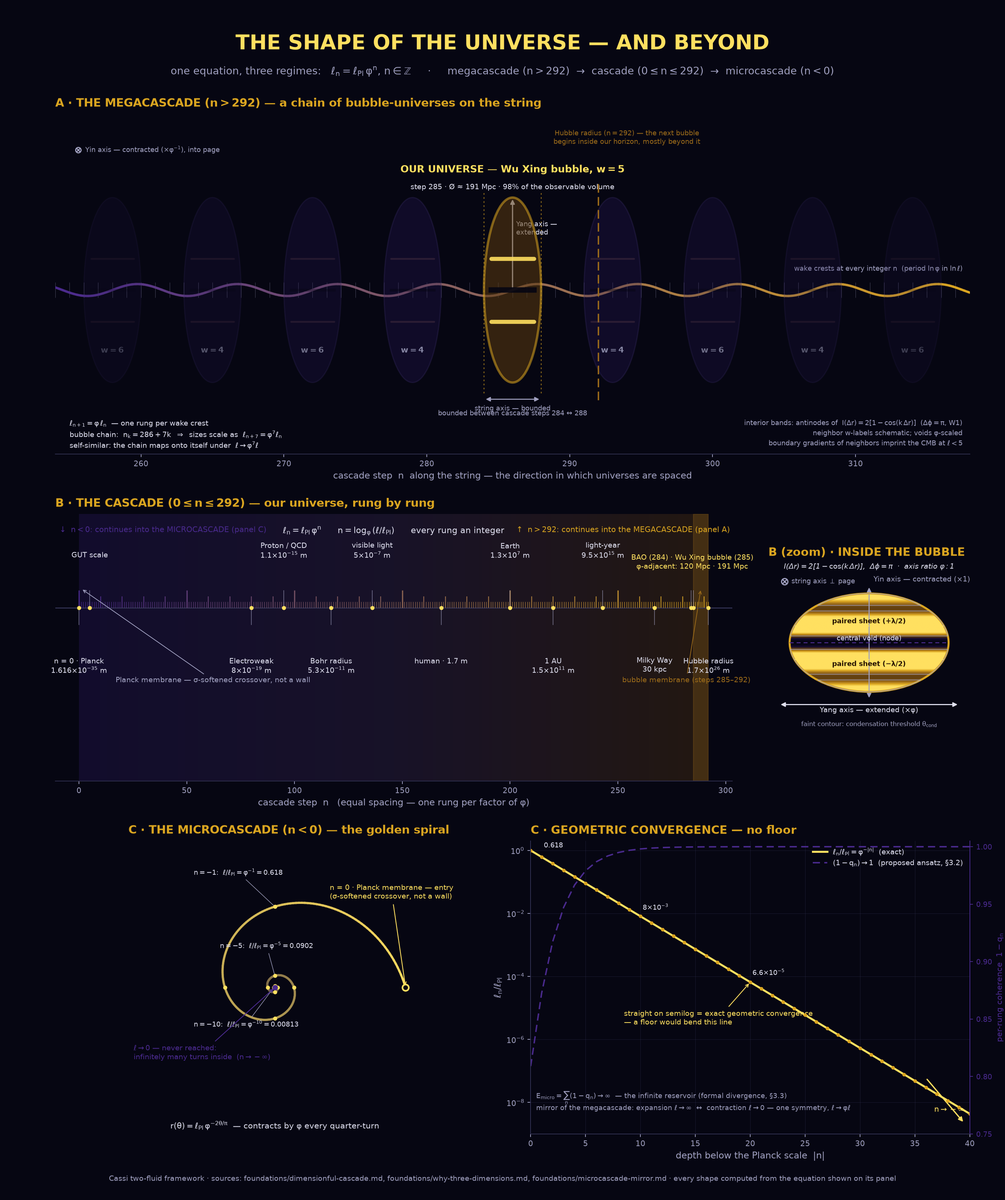
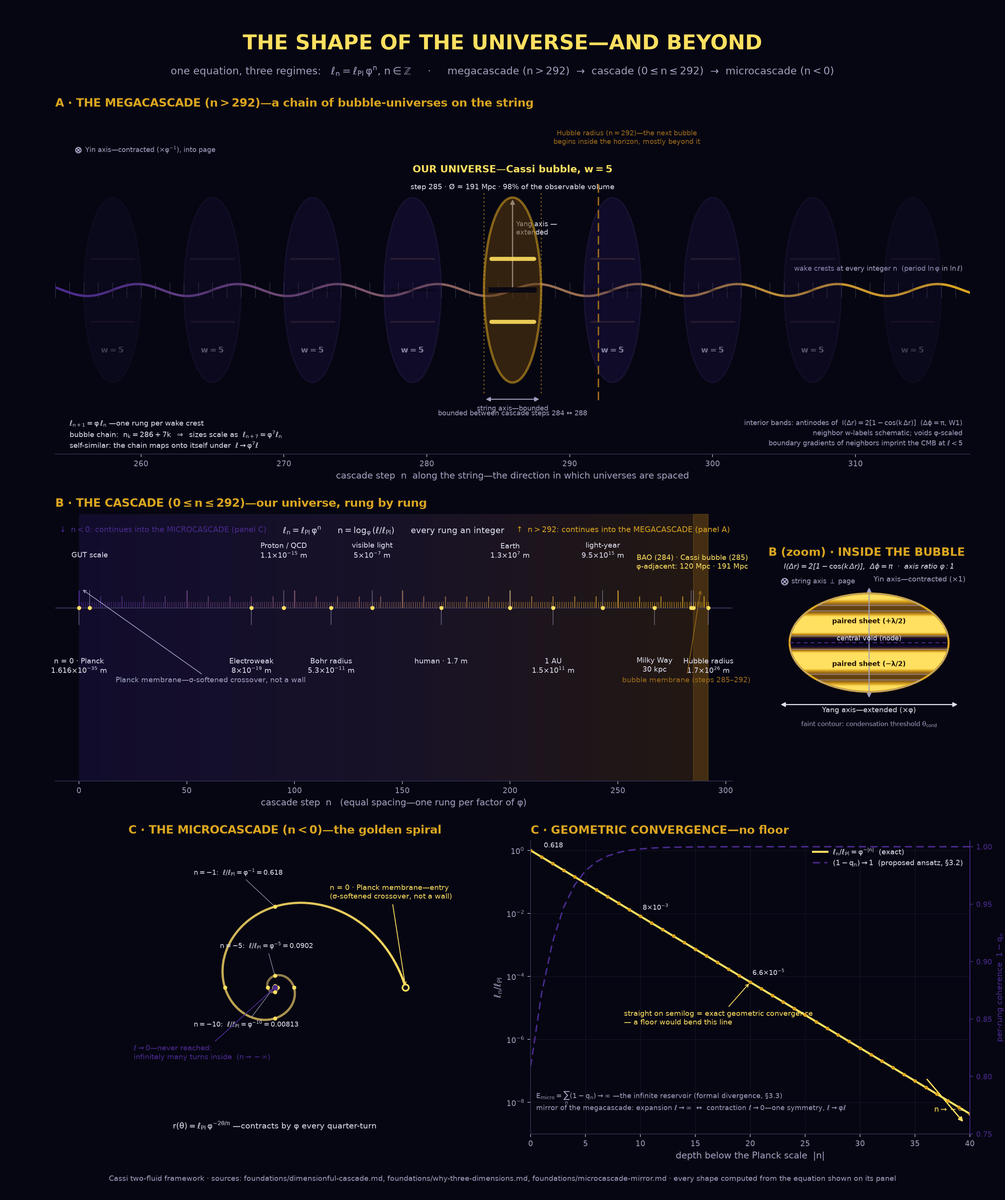
docs: rename Wu Xing bubble to Cassi bubble
The bubble at step 285 is the Cassi bubble; the Wu Xing name stays
with the 5 coherence channels (Wu Xing number w=5, cycles, 5-phase
gate, wu_xing/five_ke solver models). 36 replacements across 18
files: rung tables, geometry docs, speculations, and label strings
in run_cmb_lowl_pipeline.py and three visual explainers. Smoke
tested: cascade_cosmos.py spot-checks pass, CMB pipeline completes.

diff --git a/CassiTheory/visual-explainers/cascade_cosmos.py b/CassiTheory/visual-explainers/cascade_cosmos.py
@@ -139,7 +139,7 @@ for n in range(AX0, AX1 + 1):
 axA.text(AX1 - 0.5, 0.32, "wake crests at every integer $n$  (period $\\ln\\varphi$ in $\\ln\\ell$)",
          fontsize=7.5, color=TEXT_SUB, ha="right")
 
-# The bubble chain: centers n_k = 286 + 7k; ours (k=0) is the Wu Xing bubble
+# The bubble chain: centers n_k = 286 + 7k; ours (k=0) is the Cassi bubble
 SHEET_FRAC = 0.34                     # antinode at ±λ/2 (anti-phase, W1)
 for k in range(-4, 5):
     cx = N_CENTER + CHAIN_PERIOD * k
@@ -164,7 +164,7 @@ for k in range(-4, 5):
              zorder=5, alpha=0.9 if ours else 0.5 * fade)
     # labels
     if ours:
-        axA.text(cx, BUB_H + 0.42, "OUR UNIVERSE—Wu Xing bubble, $w{=}5$",
+        axA.text(cx, BUB_H + 0.42, "OUR UNIVERSE—Cassi bubble, $w{=}5$",
                  ha="center", fontsize=11, fontweight="bold", color=YANG_PEAK)
         axA.text(cx, BUB_H + 0.14, "step 285 · Ø ≈ 191 Mpc · 98% of the observable volume",
                  ha="center", fontsize=8, color=TEXT_MAIN)
@@ -265,11 +265,11 @@ for n, label, side in landmarks:
     axB.plot([n], [BASE], marker="o", ms=3.5, color=YANG_PEAK, zorder=4)
     axB.text(n, y_text, label, ha="center", va=va, fontsize=8.0,
              color=TEXT_MAIN, linespacing=1.25)
-# BAO + Wu Xing bubble share one callout (rungs 1 apart)
+# BAO + Cassi bubble share one callout (rungs 1 apart)
 for nb in (284, 285):
     axB.plot([nb], [BASE], marker="o", ms=3.5, color=YANG_PEAK, zorder=4)
     axB.vlines(nb, BASE, 0.60, color=TEXT_SUB, lw=0.7, alpha=0.65, zorder=3)
-axB.text(284.5, 0.71, "BAO (284) · Wu Xing bubble (285)\n$\\varphi$-adjacent: 120 Mpc · 191 Mpc",
+axB.text(284.5, 0.71, "BAO (284) · Cassi bubble (285)\n$\\varphi$-adjacent: 120 Mpc · 191 Mpc",
          ha="center", va="bottom", fontsize=8.0, color=YANG_PEAK, linespacing=1.25)
 
 # Membranes and connectors to the other two regimes
@@ -289,7 +289,7 @@ axB.text(146, 0.97,
          ha="center", va="top", fontsize=9.5, color=TEXT_MAIN)
 panel_title(axB, "B · THE CASCADE ($0 \\leq n \\leq 292$)—our universe, rung by rung")
 
-# ── Panel B zoom: inside the Wu Xing bubble (triaxial cross-section) ──────────
+# ── Panel B zoom: inside the Cassi bubble (triaxial cross-section) ──────────
 A_YANG, B_YIN = PHI, 1.0     # axis ratio = freeze-out ratio r → φ (§3.4)
 axBi.set_xlim(-2.05, 2.05)
 axBi.set_ylim(-1.82, 1.62)

diff --git a/CassiTheory/two-fluid/run_cmb_lowl_pipeline.py b/CassiTheory/two-fluid/run_cmb_lowl_pipeline.py
@@ -8,7 +8,7 @@ CMB low-ℓ angular power spectrum from the Cassi bubble-boundary geometry:
     --------
     The CMB quadrupole (ℓ=2) and octopole (ℓ=3) are anomalously aligned
     at (l,b) = (260°, +60°) at 5.4σ significance.  The Cassi mechanism:
-    a w-gradient between neighboring Wu Xing bubbles (w=4, w=6) at
+    a w-gradient between neighboring Cassi bubbles (w=4, w=6) at
     super-horizon scales imprints a preferred axis at ℓ < 5.
 
     Our bubble is at cascade step 285 (191 Mpc comoving diameter), embedded

diff --git a/CassiTheory/visual-explainers/resonant_pond.py b/CassiTheory/visual-explainers/resonant_pond.py
@@ -649,7 +649,7 @@ class CosmicWeb(Scene):
             (1.55, "Solar System"),
             (1.90, "Milky Way"),
             (2.30, "BAO"),
-            (2.80, "Wu Xing bubble"),
+            (2.80, "Cassi bubble"),
             (2.98, "Hubble radius"),
         ]
         cascade_rings = VGroup()

diff --git a/CassiTheory/visual-explainers/coherence_transmission.py b/CassiTheory/visual-explainers/coherence_transmission.py
@@ -126,7 +126,7 @@ LANDMARKS = {
     80:  ("Electroweak", YANG_MID, -0.5),
     95:  ("QCD", YANG_MID, -0.5),
     117: ("Atomic (Bohr)", YANG_DARK, -0.5),
-    285: ("Wu Xing bubble", YANG_BRIGHT, 0.5),
+    285: ("Cassi bubble", YANG_BRIGHT, 0.5),
     292: ("Hubble", YANG_PEAK, 0.5),
 }
 

diff --git a/CassiTheory/speculations/coherence-collapse.md b/CassiTheory/speculations/coherence-collapse.md
@@ -4,7 +4,7 @@
 
 ## Abstract
 
-Every civilization that asks "how does it all end?" assumes the question has an answer. In the Cassi framework the question has a shape: the universe is a coherence structure, so an apocalypse is a coherence event, and coherence events are governed by a budget that is brutally asymmetric. Random perturbation cannot kill anything: the cascade's quadratic coherence budget makes spontaneous collapse astronomically improbable. Organized perturbation can kill specific things, but only locally, only transiently, and only with phase information the universe does not hand out for free. What actually dies, and dies reliably, is the intermediate structure: a civilization is a gate network, and gate networks have the one property the cascade does not protect—finite processing capacity. This document walks through the self-healing core (why global collapse is structurally impossible), the four failure modes that survive it (q-collapse waves, species-level wake-lock, resonance catastrophe, gate-chain cascade failure), what coherence death looks like from the inside and from a telescope, and why the Wu Xing bubble makes apocalypse always local.
+Every civilization that asks "how does it all end?" assumes the question has an answer. In the Cassi framework the question has a shape: the universe is a coherence structure, so an apocalypse is a coherence event, and coherence events are governed by a budget that is brutally asymmetric. Random perturbation cannot kill anything: the cascade's quadratic coherence budget makes spontaneous collapse astronomically improbable. Organized perturbation can kill specific things, but only locally, only transiently, and only with phase information the universe does not hand out for free. What actually dies, and dies reliably, is the intermediate structure: a civilization is a gate network, and gate networks have the one property the cascade does not protect—finite processing capacity. This document walks through the self-healing core (why global collapse is structurally impossible), the four failure modes that survive it (q-collapse waves, species-level wake-lock, resonance catastrophe, gate-chain cascade failure), what coherence death looks like from the inside and from a telescope, and why the Cassi bubble makes apocalypse always local.
 
 **Epistemic status:** This is creative exploration grounded in Cassi formalism. Every mechanism is anchored to a specific equation or documented framework property—the coherence budget, the phase-matching factor, the trauma wake-lock runs, the gate-chain architecture—but the synthesis into collapse scenarios, the civilization-level mappings, and the quantitative extrapolations (especially the global-collapse probability of §1.3 and the event-rate readings of §2.2) are extrapolations beyond what the framework currently claims. Nothing in this document should be cited as a Cassi prediction or derivation.
 
@@ -146,7 +146,7 @@ The reason the universe cannot end is the same reason a civilization's death can
 
 ### 5.1 The bubble boundary as a phase barrier
 
-The Wu Xing bubble at cascade step $n = 285$ (~191 Mpc) is the coherence length of the Wu Xing number $w = 5$—the scale over which the cosmological initial conditions remain constant, set by the comoving horizon when the Qi gate first engaged (`foundations/dimensionful-cascade.md` §6). Adjacent bubbles sit at $\varphi$-spaced intervals in the chord lattice, separated by voids at the $C = -1$ sites of the condensation field; the observable universe is 98% inside the bubble, which spans the last seven rungs ($285 \to 292$) of the ladder. The boundary is a level set of the condensation field—a $\varphi$-detuned interface between the bubble's interior structure and the exterior lattice.
+The Cassi bubble at cascade step $n = 285$ (~191 Mpc) is the coherence length of the Wu Xing number $w = 5$—the scale over which the cosmological initial conditions remain constant, set by the comoving horizon when the Qi gate first engaged (`foundations/dimensionful-cascade.md` §6). Adjacent bubbles sit at $\varphi$-spaced intervals in the chord lattice, separated by voids at the $C = -1$ sites of the condensation field; the observable universe is 98% inside the bubble, which spans the last seven rungs ($285 \to 292$) of the ladder. The boundary is a level set of the condensation field—a $\varphi$-detuned interface between the bubble's interior structure and the exterior lattice.
 
 At a $\varphi$-detuned boundary the phase-matching factor is $\mathcal{M} \approx 0$: energy cannot couple across the interface—the mechanism that suppresses the sonic boom of a rung-shifting craft (`speculations/qi-bubble-propulsion.md` §2.2), applied at bubble scale. A coherence catastrophe inside the bubble hits a boundary it cannot phase-match, and it cannot leave. The wave's own weapon—phase information—is exactly what the boundary refuses. The apocalypse is local because the universe is partitioned by interfaces that are, by construction, invisible to organized perturbation.
 
@@ -175,7 +175,7 @@ The same boundary that confines the catastrophe confines the rescue. No neighbor
 - `foundations/cascade-suppression-formula.md`—$\varphi^{-N}$ attenuation, coherence maintenance, per-rung damping
 - `foundations/proton-coherence-budget.md`—coherence budget, random vs organized dephasing, annihilation
 - `foundations/quantum-measurement-derivation.md`—phase-matching factor $\mathcal{M}$, single-rung organized attack, Born rule
-- `foundations/dimensionful-cascade.md`—292-step ladder, Wu Xing bubble at $n \approx 285$, megacascade extension
+- `foundations/dimensionful-cascade.md`—292-step ladder, Cassi bubble at $n \approx 285$, megacascade extension
 - `foundations/bubble-lattice-fabric.md`—universal checkerboard, voids, 10-rung nesting depth
 - `foundations/microcascade-mirror.md`—sub-Planckian extension of the ladder
 - `foundations/cassi-first-principles.md`—two-fluid PDE, attractor potential, Qi gate

diff --git a/CassiTheory/foundations/bubble-edge-geometry.md b/CassiTheory/foundations/bubble-edge-geometry.md
@@ -63,7 +63,7 @@ This equation determines $\theta_{\text{cond}}$ from the single dimensionless pa
 
 **The phase diagram.** Unlike the simplified cubic form (which would arise from a $(1-q)^2$ gate), the relation with the true gate $g(q) = q/(\varphi^2 + q^2)$ is **monotonic**: larger $R$ produces larger $\theta_{\text{cond}}$ (thicker-edge bubbles). There is no catastrophic percolation threshold—bubbles never merge spontaneously. The mapping is smooth from $\theta_{\text{cond}} \to 0$ at $R \to 0$ (infinitesimal bubbles) to $\theta_{\text{cond}} \to 1$ at $R \to 2/(\varphi^2 + 1) \approx 0.552$ (bubbles filling the entire lattice). The calibration $R \approx 0.093$ gives the phenomenologically-inferred $\theta_{\text{cond}} = 0.45$.
 
-**The wavenumbers.** The condensation field wavelengths are set by the bubble scale: $\lambda_Y = \ell_{285} \approx 191$ Mpc (the Wu Xing bubble diameter from `dimensionful-cascade.md`), $\lambda_I = \lambda_Y/\varphi \approx 118$ Mpc. This gives $\alpha = 2\pi/\lambda_Y \approx 1.07 \times 10^{-24}$ m$^{-1}$, $\beta = \varphi\alpha \approx 1.73 \times 10^{-24}$ m$^{-1}$, and $\alpha^2 + \beta^2 = \alpha^2(1+\varphi^2) \approx 4.12 \times 10^{-48}$ m$^{-2}$.
+**The wavenumbers.** The condensation field wavelengths are set by the bubble scale: $\lambda_Y = \ell_{285} \approx 191$ Mpc (the Cassi bubble diameter from `dimensionful-cascade.md`), $\lambda_I = \lambda_Y/\varphi \approx 118$ Mpc. This gives $\alpha = 2\pi/\lambda_Y \approx 1.07 \times 10^{-24}$ m$^{-1}$, $\beta = \varphi\alpha \approx 1.73 \times 10^{-24}$ m$^{-1}$, and $\alpha^2 + \beta^2 = \alpha^2(1+\varphi^2) \approx 4.12 \times 10^{-48}$ m$^{-2}$.
 
 **Status.** The functional form relating $\theta_{\text{cond}}$ to $R$ is **Derived** from the balance of gated conversion and diffusion. The numerical value depends on $D_{\text{eff}}/\omega_0$—the ratio of the condensation field's effective diffusion to the conversion rate, measurable from the PDE. The phenomenologically-calibrated $\theta_{\text{cond}} = 0.45$ corresponds to $R \approx 0.093$. Section 8 specifies the PDE computation to determine $R$ and $\theta_{\text{cond}}$ from first principles.
 
@@ -193,7 +193,7 @@ The gradient anisotropy ratio $\sqrt{4\varphi^2/(1+\varphi^2)} \approx 1.70$ is 
 
 ### 5.3 Absolute Lattice Scales
 
-The condensation field wavelengths are set by the cascade. From `dimensionful-cascade.md`, the Wu Xing bubble at step 285 gives:
+The condensation field wavelengths are set by the cascade. From `dimensionful-cascade.md`, the Cassi bubble at step 285 gives:
 
 $$\lambda_Y = \ell_{285} \approx 191\ \text{Mpc}, \qquad \lambda_I = \frac{\lambda_Y}{\varphi} \approx 118\ \text{Mpc}$$
 
@@ -449,7 +449,7 @@ The condensation field $B(x,y,z)$ and its checkerboard lattice are not specific 
 - `visual-explainers/chord_side_on.py`—3D bubble shape, waisted lobe-pairs, string threading
 - `foundations/why-three-dimensions.md`—three dimensions from the spiral's Frenet-Serret frame, triaxial spheroid, anti-phase selection
 - `foundations/wu-xing-derivation.md` -- $w = 5$ uniqueness (all bubbles identical)
-- `foundations/dimensionful-cascade.md`—Wu Xing bubble at step 285, 191 Mpc
+- `foundations/dimensionful-cascade.md`—Cassi bubble at step 285, 191 Mpc
 - `foundations/spiral-dynamics.md`—$c(r)$ profile, wave speed; $H \propto (1-q)$
 - `foundations/cassi-first-principles.md`—Qi gate $g(q) = q/(\varphi^2+q^2)$, conversion dynamics
 - `consciousness/consciousness-from-phi.md` §3—two-bubble $\varphi$-resonance

diff --git a/CassiTheory/speculations/simulation-hypothesis.md b/CassiTheory/speculations/simulation-hypothesis.md
@@ -64,7 +64,7 @@ The frame rate is not uniform: each rung ticks at $t_n = \ell_n/c$ (`speculation
 
 ### 2.3 World edges at $n \approx 285$
 
-The Wu Xing bubble sits at rung 285: a coherence volume of $\sim 191$ Mpc containing roughly a million Milky-Way-sized galaxies—98% of the way up the 292-rung ladder (`foundations/dimensionful-cascade.md` §6). This is the nearest thing the architecture has to a world edge: the boundary of our initial conditions, where our $w=5$ volume ends and the neighbor's begins. The boundary is a level set of the condensation field $C(x,y) = \cos(2\pi x/\lambda_Y)\cos(2\pi y/\lambda_I) = \theta_{\text{cond}}$, with an edge gradient $1.70\times$ steeper in the Yin direction than the Yang direction (`foundations/cassi-theory-reference.md` §10.3). Because $285 < 292$, the edge is inside the render distance: a transition zone, not a wall. From inside, its signature is statistical—a preferred axis and the $12.2^\circ$ quadrupole-octopole alignment in the CMB's largest angular scales ($\ell < 5$), predicted from the bubble's triaxial geometry (`foundations/dimensionful-cascade.md` §8.3, `foundations/bubble-edge-geometry.md`). Beyond it lie adjacent bubbles of identical $w=5$ at $\varphi$-spaced intervals: "the next instance of the same world," in save-file terms.
+The Cassi bubble sits at rung 285: a coherence volume of $\sim 191$ Mpc containing roughly a million Milky-Way-sized galaxies—98% of the way up the 292-rung ladder (`foundations/dimensionful-cascade.md` §6). This is the nearest thing the architecture has to a world edge: the boundary of our initial conditions, where our $w=5$ volume ends and the neighbor's begins. The boundary is a level set of the condensation field $C(x,y) = \cos(2\pi x/\lambda_Y)\cos(2\pi y/\lambda_I) = \theta_{\text{cond}}$, with an edge gradient $1.70\times$ steeper in the Yin direction than the Yang direction (`foundations/cassi-theory-reference.md` §10.3). Because $285 < 292$, the edge is inside the render distance: a transition zone, not a wall. From inside, its signature is statistical—a preferred axis and the $12.2^\circ$ quadrupole-octopole alignment in the CMB's largest angular scales ($\ell < 5$), predicted from the bubble's triaxial geometry (`foundations/dimensionful-cascade.md` §8.3, `foundations/bubble-edge-geometry.md`). Beyond it lie adjacent bubbles of identical $w=5$ at $\varphi$-spaced intervals: "the next instance of the same world," in save-file terms.
 
 ### 2.4 What it looks like from inside
 
@@ -196,7 +196,7 @@ What the framework does provide, and what this document intends to preserve, is 
 - `foundations/cassi-first-principles.md`—two-fluid PDE, Qi gate, IIR memory, Schrödinger limit
 - `foundations/unified-lagrangian.md`—the complete action; zero free parameters
 - `foundations/cassi-theory-reference.md`—$\sigma = \ell_{\text{Pl}}/\varphi^3$, $\xi = \varphi^6$, bubble geometry, pinch transition
-- `foundations/dimensionful-cascade.md`—$\ell_n = \ell_{\text{Pl}}\varphi^n$, 292-rung table, Wu Xing bubble, open questions
+- `foundations/dimensionful-cascade.md`—$\ell_n = \ell_{\text{Pl}}\varphi^n$, 292-rung table, Cassi bubble, open questions
 - `foundations/microcascade-mirror.md`—infinite sub-Planckian ladder, mirror symmetry, $\sigma$-softening
 - `foundations/bubble-lattice-fabric.md`—universal checkerboard, scale covariance, 10-rung nesting depth
 - `foundations/bubble-edge-geometry.md`—condensation field level sets, edge anisotropy, CMB imprint

diff --git a/CassiTheory/foundations/dimensionful-cascade.md b/CassiTheory/foundations/dimensionful-cascade.md
@@ -84,7 +84,7 @@ The electroweak cascade depth $N \approx 80$ is robust against variations in the
 | 275 | $4.8 \times 10^{22}$ | Local Group ($\sim 1.6$ Mpc) | Extragalactic |
 | 280 | $5.3 \times 10^{23}$ | Cosmic void scale ($\sim 17$ Mpc) | Extragalactic |
 | **284** | **$3.6 \times 10^{24}$** | **Yin wake of rung 285** ($\lambda_I = \ell_{285}/\varphi$; old “BAO ~120 Mpc” label—the measured ruler sits at the 284.5 half-step, 150 Mpc) | Cosmological |
-| **285** | **$5.9 \times 10^{24}$** | **Wu Xing bubble** ($\sim 191$ Mpc) | Multiverse |
+| **285** | **$5.9 \times 10^{24}$** | **Cassi bubble** ($\sim 191$ Mpc) | Multiverse |
 | 288 | $2.5 \times 10^{25}$ | Supercluster scale ($\sim 800$ Mpc) | Cosmological |
 | 290 | $6.5 \times 10^{25}$ | Horizon at recombination ($\sim 2.1$ Gpc) | Cosmological |
 | **292** | **$1.7 \times 10^{26}$** | **Hubble radius** ($\sim 5.5$ Gpc) | Observable universe |
@@ -114,14 +114,14 @@ The full 292-step cascade divides naturally into three regimes:
 - The electroweak scale emerges at $n \approx 80$ as a dynamical threshold where the Qi gate begins to engage
 
 ### Zone 2: Astrophysics ($n \approx 80$ to $n \approx 285$)
-- Electroweak scale to the Wu Xing bubble
+- Electroweak scale to the Cassi bubble
 - Governed by Qi-enhanced gravity ($\xi = \varphi^6$)
 - Structure formation: galaxies, clusters, superclusters
 - The wave speed $c(r)$ varies from $\sim 0.24$ (at $r_0$) to $\sim 0$ (near $\varphi$), creating a variable-tension "string" that generates wake waves at $\varphi$-scaled intervals
 - The Qi gate engagement at $r = \varphi^{-1}$ ($a \sim 0.051$, $z \sim 19$) sets the bubble scale
 
 ### Zone 3: Cosmology ($n \approx 285$ to $n \approx 292$)
-- Wu Xing bubble to Hubble radius
+- Cassi bubble to Hubble radius
 - Only 7 $\varphi$-steps—the bubble fills 98% of the observable volume
 - Adjacent bubbles in the chord lattice appear at $\varphi$-scaled intervals, mostly beyond the horizon; only one bubble per observable volume
 - CMB large-angle anomalies reflect bubble-boundary geometry at these scales (see `foundations/bubble-edge-geometry.md`)
@@ -182,7 +182,7 @@ The lattice structure varies with the condensation dimension $P_\parallel(n)$, w
 | 0 | Planck length | $\sigma$-regularized crossover; discrete lattice dissolves into harmonic regime |
 | 142–168 | Human body | 26-rung nested lattice; $P_\parallel = 2$ (13 chakra nodes at 2-rung spacing) |
 | 144 | Neuron soma (~20 µm) | Neural hierarchy anchor; 8 φ-spaced lattice levels |
-| 285 | Wu Xing bubble | $P_\parallel = 1$; staggered 2D checkerboard; foreground bubble in chord lattice |
+| 285 | Cassi bubble | $P_\parallel = 1$; staggered 2D checkerboard; foreground bubble in chord lattice |
 | >292 | Megacascade | Chord lattice of $w=5$ bubbles; 5-arm Fibonacci spiral at gigacascade octave |
 
 **Note:** $P_\parallel(n)$ varies with scale—1 rung at cosmological scales, 2 rungs at human scales. The $n$-dependence of $P_\parallel$ is not yet derived from first principles.

diff --git a/CassiTheory/foundations/cassi-theory-reference.md b/CassiTheory/foundations/cassi-theory-reference.md
@@ -91,7 +91,7 @@ $n \in [0, \approx 292]$ (Planck to Hubble). $n = \log_\varphi(\ell / \ell_{\tex
 | 220 | $1.5 \times 10^{11}$ | Astronomical Unit |
 | 267 | $9.3 \times 10^{20}$ | Milky Way diameter |
 | 284 | $3.6 \times 10^{24}$ | BAO scale |
-| 285 | $5.9 \times 10^{24}$ | Wu Xing bubble |
+| 285 | $5.9 \times 10^{24}$ | Cassi bubble |
 | 292 | $1.7 \times 10^{26}$ | Hubble radius |
 
 ### 3.2 Cascade Suppression
@@ -351,7 +351,7 @@ $$\Delta(\ln k) = \ln\varphi$$
 
 **Horizon.** Scales synchronize through temporal emergence: when $r(t)$ crosses a cascade step, all associated scales activate simultaneously.
 
-**CMB anomalies.** Adjacent Wu Xing bubbles at $\varphi$-spaced intervals imprint a preferred axis at $\ell < 5$. Dipole–quadrupole alignment $12.2^\circ$, from bubble triaxial geometry. Scale-dependent (fades for $\ell > 5$).
+**CMB anomalies.** Adjacent Cassi bubbles at $\varphi$-spaced intervals imprint a preferred axis at $\ell < 5$. Dipole–quadrupole alignment $12.2^\circ$, from bubble triaxial geometry. Scale-dependent (fades for $\ell > 5$).
 
 **$\sigma_8$.** Qi gravity weakens $G_{\text{eff}}$ in low-density voids, reducing large-scale clustering.
 
@@ -399,7 +399,7 @@ Three dimensions from differential geometry of any non-degenerate space curve. $
 
 ### 10.3 Bubble Geometry
 
-Wu Xing bubble at step 285: triaxial spheroid bounded between adjacent cascade steps. Yang-Yin cross-section: elliptical, axis ratio $\varphi$. Condensation boundary: level set of $C(x,y) = \cos(2\pi x/\lambda_Y)\cos(2\pi y/\lambda_I)$. Edge gradient $1.70\times$ steeper in Yin direction. Adjacent bubbles: $m+n$ even sublattice; voids: odd sublattice.
+Cassi bubble at step 285: triaxial spheroid bounded between adjacent cascade steps. Yang-Yin cross-section: elliptical, axis ratio $\varphi$. Condensation boundary: level set of $C(x,y) = \cos(2\pi x/\lambda_Y)\cos(2\pi y/\lambda_I)$. Edge gradient $1.70\times$ steeper in Yin direction. Adjacent bubbles: $m+n$ even sublattice; voids: odd sublattice.
 
 The condensation field and its bubble lattice are universal across all cascade rungs—see `foundations/bubble-lattice-fabric.md` for the full derivation and the four universal geometric signatures.
 

diff --git a/CassiTheory/foundations/why-three-dimensions.md b/CassiTheory/foundations/why-three-dimensions.md
@@ -190,7 +190,7 @@ extension in the doublet plane (Yang-dominated) against the cascade confinement
 (string). The universe on the string is a lens whose two diameters are unequal,
 with the longer one marked by Yang.
 
-The Wu Xing bubble (step 285, $\sim 191$ Mpc comoving, 98% of the observable
+The Cassi bubble (step 285, $\sim 191$ Mpc comoving, 98% of the observable
 volume) thereby acquires a *shape* for the first time: three axes, and with them
 **two preferred geometric directions**: the short axis (string/tangent) and the
 long in-plane axis (Yang/normal).
@@ -378,7 +378,7 @@ consequences of the spheroid geometry; W4 upgrades from conditional to active.
 - SO(2) doublet structure of the two fluids; perpendicularity of the field
   axes (dual-real formulation)
 - Wake-wave mechanism with $\varphi$-scaled spacing; string-wake feedback loop
-- The Wu Xing bubble at step 285; neighboring $w$-bubbles beyond the horizon
+- The Cassi bubble at step 285; neighboring $w$-bubbles beyond the horizon
 - The imported status of the 3 in $\xi = \varphi^6$ (this is a gap in the
   existing text, not new physics—addressed by this document)
 - **Anti-phase conversion coupling** confirmed by PDE structure (§4.3) and
@@ -410,7 +410,7 @@ consequences of the spheroid geometry; W4 upgrades from conditional to active.
 ## References
 
 - `xi-derivation.md`: the $\xi = \varphi^6$ derivation and its imported 3
-- `dimensionful-cascade.md`: the 292-step cascade; Wu Xing bubble at step 285
+- `dimensionful-cascade.md`: the 292-step cascade; Cassi bubble at step 285
 - `consciousness/consciousness-from-phi.md` §1: pinch point, wake waves, string-wake loop
 - `principles/de-resonance-principle.md`: $\varphi$ as maximal de-resonance
 - `foundations/spin-fibonacci-spiral.md`: Fibonacci spiral geometry, SO(2) winding

diff --git a/CassiTheory/foundations/bubble-lattice-fabric.md b/CassiTheory/foundations/bubble-lattice-fabric.md
@@ -158,7 +158,7 @@ $$\Theta(r) = \frac{2\pi}{\ln\varphi}\ln\left(\frac{r}{\ell_n}\right)$$
 
 One full rotation per cascade rung. Expansion factor per turn: $\varphi$. The 5-fold symmetry follows from the Wu Xing cycle ($w = 5$, `foundations/wu-xing-derivation.md`), which appears at every octave boundary where the lattice self-organizes into coherent rotational phases.
 
-**Observed at:** the cosmological Wu Xing bubble (step 285, 5 spiral arms in galaxy distribution), the human chakra system ($13 = F_7$ Fibonacci nodes along the spine), the neural hierarchy (8 levels within a $\varphi^5$ span), and potentially at galaxy-cluster scales, molecular scales, and gigacascade scales.
+**Observed at:** the cosmological Cassi bubble (step 285, 5 spiral arms in galaxy distribution), the human chakra system ($13 = F_7$ Fibonacci nodes along the spine), the neural hierarchy (8 levels within a $\varphi^5$ span), and potentially at galaxy-cluster scales, molecular scales, and gigacascade scales.
 
 ---
 
@@ -186,7 +186,7 @@ The ladder metaphor is correct but incomplete—it captures the along-string per
 | 142–168 | $7.7 \times 10^{-6}$ to $1.7$ m | Human body | 26-rung nested lattice; 13 chakra nodes at $P_\parallel = 2$ |
 | ~144 | ~20 µm | Neuron soma | Neural hierarchy anchor; 8 $\varphi$-spaced levels |
 | ~267 | $9.3 \times 10^{20}$ m | Milky Way | Galaxy as a bubble condensate in the cosmic lattice |
-| 285 | $5.9 \times 10^{24}$ m | Wu Xing bubble | One full lattice period; 2D checkerboard observable in void catalogs |
+| 285 | $5.9 \times 10^{24}$ m | Cassi bubble | One full lattice period; 2D checkerboard observable in void catalogs |
 | >292 | $>$$1.7 \times 10^{26}$ m | Megacascade | Chord lattice of $w=5$ bubbles at $\varphi$-spaced intervals; 5-arm spiral at gigacascade octave |
 
 ---

diff --git a/CassiTheory/speculations/README.md b/CassiTheory/speculations/README.md
@@ -92,7 +92,7 @@ $\ln\varphi \approx 0.4812$ log-periodicity is the one constant every physics-li
 
 ### `simulation-hypothesis.md`—The Simulation Hypothesis, Cassi Edition
 
-The universe's source code is the two-fluid PDE with $\sigma$-regularization as the grid cutoff; the render budget is set by the ladder itself (resolution floor $n=0$, render distance $n=292$, world edges at the Wu Xing bubble), and the bidirectional micro/megacascade makes nesting self-consistent—a simulator inside the sim is a sub-PDE with its own ladder. Hacking is holding $r$ off-attractor at cost $E_{\text{hold}} \approx \int V_{\text{attr}}\,dV\,dt$; glitches are coherence defects and bubble-edge boundary artifacts. The epistemic trap closes the document: simulation absorbs every observation, so it stays Speculative while the equations stay Derived.
+The universe's source code is the two-fluid PDE with $\sigma$-regularization as the grid cutoff; the render budget is set by the ladder itself (resolution floor $n=0$, render distance $n=292$, world edges at the Cassi bubble), and the bidirectional micro/megacascade makes nesting self-consistent—a simulator inside the sim is a sub-PDE with its own ladder. Hacking is holding $r$ off-attractor at cost $E_{\text{hold}} \approx \int V_{\text{attr}}\,dV\,dt$; glitches are coherence defects and bubble-edge boundary artifacts. The epistemic trap closes the document: simulation absorbs every observation, so it stays Speculative while the equations stay Derived.
 
 ## 3. Cross-References
 
